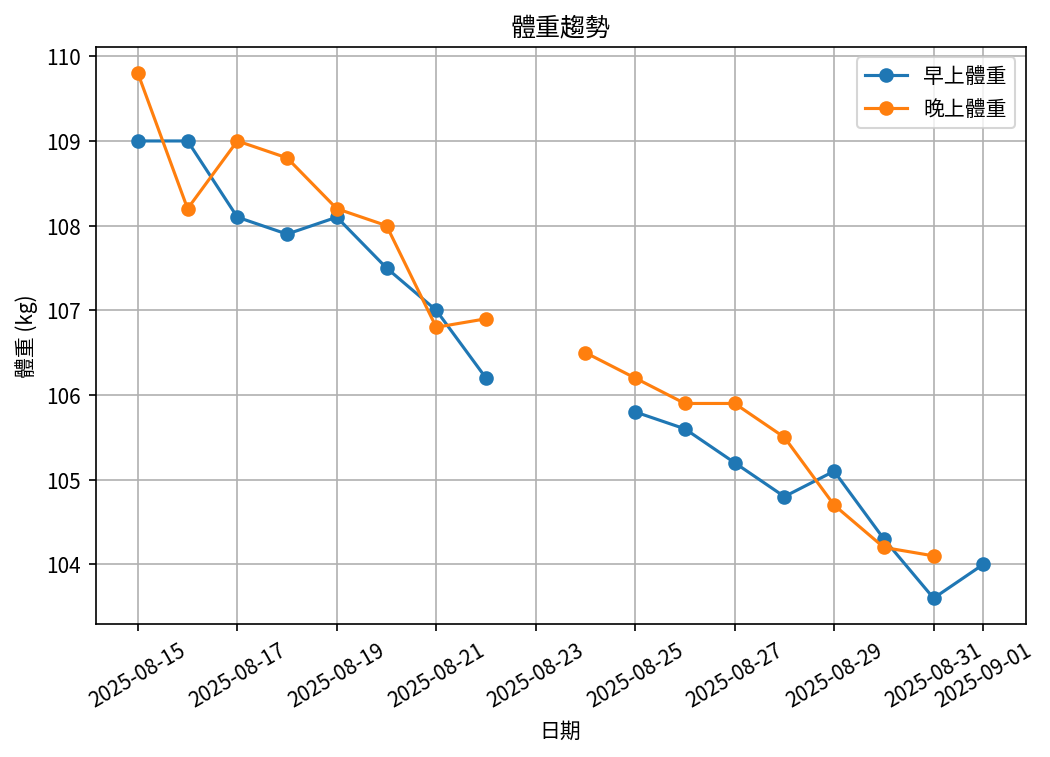
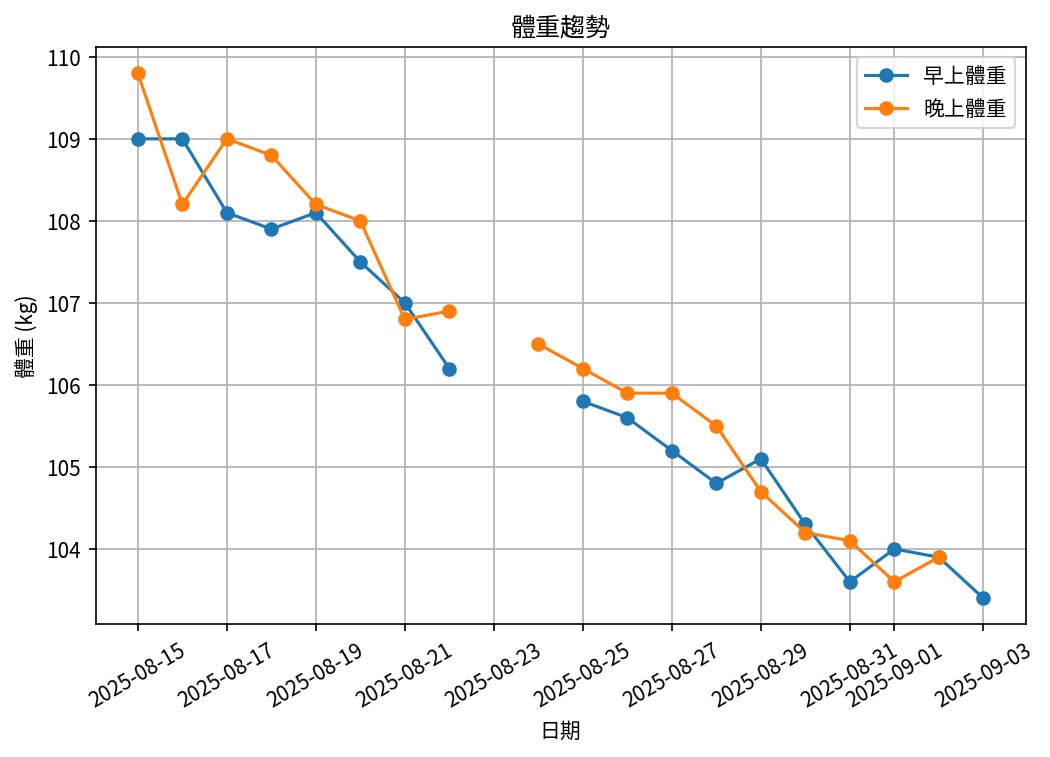
update valeus

diff --git a/reports/summary/overall_summary_report.md b/reports/summary/overall_summary_report.md
@@ -1,7 +1,7 @@
 # 📊 減重總結報告
 
-**總期間：2025/08/15 ～ 2025/09/01**  
-**追蹤期間：18 天 (3 週)**  
+**總期間：2025/08/15 ～ 2025/09/03**  
+**追蹤期間：20 天 (3 週)**  
 
 ---
 
@@ -13,13 +13,13 @@
 |:-----------|:------------|:------------|:-----------|:-----------|
 | 08/15 (週五) | 109.0       | 109.8       | nan        | 29.0       |
 | ...        | ...         | ...         | ...        | ...        |
-| 08/26 (週二) | 105.6       | 105.9       | 30.1       | 29.1       |
-| 08/27 (週三) | 105.2       | 105.9       | 30.0       | 28.3       |
 | 08/28 (週四) | 104.8       | 105.5       | 30.4       | 27.9       |
 | 08/29 (週五) | 105.1       | 104.7       | 30.2       | 28.1       |
 | 08/30 (週六) | 104.3       | 104.2       | 30.2       | 27.9       |
 | 08/31 (週日) | 103.6       | 104.1       | 30.1       | 29.4       |
-| 09/01 (週一) | 104.0       | nan         | 30.3       | nan        |
+| 09/01 (週一) | 104.0       | 103.6       | 30.3       | 28.0       |
+| 09/02 (週二) | 103.9       | 103.9       | 29.7       | 27.7       |
+| 09/03 (週三) | 103.4       | nan         | 29.9       | nan        |
 
 ---
 
@@ -32,23 +32,24 @@
 
 ## 📌 總體統計
 
-- **體重（AM）**：109.0 → 104.0 kg  (**-5.0 kg**), 總平均 106.3 kg  
-- **體重（PM）**：109.8 → 104.1 kg  (**-5.7 kg**), 總平均 106.8 kg  
-- **體重（AM+PM 平均）**：106.6 kg  
+- **體重（AM）**：109.0 → 103.4 kg  (**-5.6 kg**), 總平均 106.0 kg  
+- **體重（PM）**：109.8 → 103.9 kg  (**-5.9 kg**), 總平均 106.5 kg  
+- **體重（AM+PM 平均）**：106.2 kg  
 
-- **體脂（AM）**：30.3% → 30.3%  (**0.0%**), 總平均 30.3%  
-- **體脂（PM）**：29.0% → 29.4%  (**0.4%**), 總平均 28.3%  
+- **體脂（AM）**：30.3% → 29.9%  (**-0.4%**), 總平均 30.3%  
+- **體脂（PM）**：29.0% → 27.7%  (**-1.3%**), 總平均 28.3%  
 - **體脂（AM+PM 平均）**：29.3%  
 
-- **追蹤天數**：18 天  
-- 平均每週體重變化（AM）：-1.7 kg/週  
-- 平均每週體重變化（PM）：-1.9 kg/週
+- **追蹤天數**：20 天  
+- 平均每週體重變化（AM）：-1.9 kg/週  
+- 平均每週體重變化（PM）：-2.0 kg/週
 
 ---
 
 ## 🎯 重點成果
 
-✅ **體重減少**：在 18 天內減重 5.0 kg（早上測量）  
+✅ **體重減少**：在 20 天內減重 5.6 kg（早上測量）  
+✅ **體脂下降**：體脂率降低 1.3%（晚上測量）  
 
 ## ✅ 持續建議
 - 維持 **高蛋白 (每公斤 1.6–2.0 g)** 與 **每週 2–3 次阻力訓練**  

diff --git a/reports/2025-CW03/2025-CW03_weekly_report.md b/reports/2025-CW03/2025-CW03_weekly_report.md
@@ -11,7 +11,9 @@
 | 08/29 (週五) |       105.1 |       104.7 |       30.2 |       28.1 |
 | 08/30 (週六) |       104.3 |       104.2 |       30.2 |       27.9 |
 | 08/31 (週日) |       103.6 |       104.1 |       30.1 |       29.4 |
-| 09/01 (週一) |       104   |       nan   |       30.3 |      nan   |
+| 09/01 (週一) |       104   |       103.6 |       30.3 |       28   |
+| 09/02 (週二) |       103.9 |       103.9 |       29.7 |       27.7 |
+| 09/03 (週三) |       103.4 |       nan   |       29.9 |      nan   |
 
 ---
 
@@ -24,15 +26,15 @@
 
 ## 📌 本週統計
 
-- 體重（AM）：105.1 → 104.0 kg  (**-1.1 kg**), 週平均 104.2 kg  
-- 體重（PM）：104.7 → 104.1 kg  (**-0.6 kg**), 週平均 104.3 kg  
-- 體重（AM+PM 平均）：104.3 kg  
+- 體重（AM）：105.1 → 103.4 kg  (**-1.7 kg**), 週平均 104.0 kg  
+- 體重（PM）：104.7 → 103.9 kg  (**-0.8 kg**), 週平均 104.1 kg  
+- 體重（AM+PM 平均）：104.1 kg  
 
-- 體脂（AM）：30.2% → 30.3%  (**0.1%**), 週平均 30.2%  
-- 體脂（PM）：28.1% → 29.4%  (**1.3%**), 週平均 28.5%  
-- 體脂（AM+PM 平均）：29.3%  
+- 體脂（AM）：30.2% → 29.9%  (**-0.3%**), 週平均 30.1%  
+- 體脂（PM）：28.1% → 27.7%  (**-0.4%**), 週平均 28.2%  
+- 體脂（AM+PM 平均）：29.1%  
 
-- 紀錄天數：4 天
+- 紀錄天數：6 天
 
 ---
 
